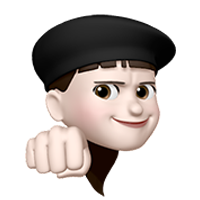
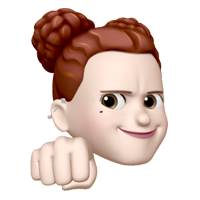
commit

diff --git a/index.html b/index.html
@@ -54,13 +54,13 @@
                             <div class="list_item">
                                 <a href="#none" class="list_link memoji_link">
                                     <div class="memoji_wrap">
-                                        <img src="./assets/images/memoji1.gif" class="play" alt="미모지 이모티콘 gif">
+                                        <img src="./assets/images/memoji.gif" class="play" alt="미모지 이모티콘 gif">
                                         <img src="./assets/images/memojiHover.png" class="pause" width="100%"
                                             height="100%" alt="미모지 ghqj 이모티콘">
                                     </div>
                                     <span class="text_wrap">
                                         <strong class="title">Nice to meet you</strong>
-                                        <span class="desc">개발에 의욕적인 신입 퍼블리셔 김희원입니다 :)</span>
+                                        <span class="desc">열정 가득! 신입 퍼블리셔 김희원입니다 :)</span>
                                     </span>
                                 </a>
                             </div>
@@ -228,6 +228,27 @@
                                     </div>
                                 </div>
                                 <div class="pf_bg fourth"><span class="blind">이미지 백그라운드</span></div>
+                            </div>
+                            <div class="pf_area pf_spacer3">
+                                <div class="area_inner">
+                                    <div class="move_box">
+                                        <a href="https://heewonkimm.github.io/dna-projecten" target="_blank"
+                                            class="thumb_area fifth">
+                                            <img src="assets/images/Untitled-1.png" alt="dna projecten 페이지 이미지">
+                                        </a>
+                                    </div>
+                                    <div class="text_area">
+                                        <h2 class="desc">스키니랩, 스키니랩, 스키니랩, 스키니랩 pc적응형 모바일 적응형, 마크업, swiper </h2>
+                                        <p class="keyword small">
+                                            <span>#Responsive</span>
+                                            <span>#GSAP</span>
+                                            <span>#SCSS</span>
+                                        </p>
+                                        <a href="https://velog.io/@kimheewon/DNA-Projecten" target="_blank"
+                                            class="review_btn">→ CODE REVIEW</a>
+                                    </div>
+                                </div>
+                                <div class="pf_bg fifth"><span class="blind">이미지 백그라운드</span></div>
                             </div>
                         </div>
                     </div>

diff --git a/assets/css/style.css b/assets/css/style.css
@@ -252,19 +252,17 @@ html {
   width: 63px;
   height: 63px;
   border-radius: 4px;
-  background-color: #dfd3ea;
-  overflow: hidden;
 }
 .group_updates .list_area .memoji_wrap img.play {
   position: absolute;
   top: 50%;
   left: 50%;
-  transform: translate(-50%, -50%) scale(1.65);
+  transform: translate(-50%, -50%) scale(2.55);
   width: 100%;
   height: 100%;
   -o-object-fit: contain;
      object-fit: contain;
-  margin-top: 2px;
+  margin-top: -3px;
   max-width: 200%;
   z-index: 10;
 }
@@ -273,7 +271,7 @@ html {
   position: absolute;
   top: 50%;
   left: 50%;
-  transform: translate(-50%, -50%) scale(0.98);
+  transform: translate(-50%, -50%) scale(1.05);
   z-index: 5;
 }
 @media (max-width: 1023px) {
@@ -1004,6 +1002,20 @@ html {
     margin: 0 1vw !important;
   }
 }
+.sc_portfolio .pf_spacer3 {
+  margin: -6em 3em 0 5em !important;
+}
+@media (max-width: 1023px) {
+  .sc_portfolio .pf_spacer3 {
+    margin-left: 4vw !important;
+    margin-right: 2vw !important;
+  }
+}
+@media (max-width: 767px) {
+  .sc_portfolio .pf_spacer3 {
+    margin: 0 1vw !important;
+  }
+}
 .sc_portfolio .pf_bg {
   opacity: 0;
   position: fixed;
@@ -1026,6 +1038,9 @@ html {
 .sc_portfolio .pf_bg.fourth {
   background-color: #d9ff00;
 }
+.sc_portfolio .pf_bg.fifth {
+  background-color: #abc8e1;
+}
 .sc_portfolio .thumb_area.first {
   background-color: hsl(245, 100%, 58.93%);
 }
@@ -1037,4 +1052,7 @@ html {
 }
 .sc_portfolio .thumb_area.fourth {
   background-color: #d9ff00;
+}
+.sc_portfolio .thumb_area.fifth {
+  background-color: #abc8e1;
 }

diff --git a/assets/scss/page/_main.scss b/assets/scss/page/_main.scss
@@ -354,9 +354,11 @@
 
             &.small {
                 font-size: 1.28vw;
+
                 @include tablet {
                     font-size: 1.75em
                 }
+
                 @include mobile {
                     font-size: 3.5vw;
                 }
@@ -399,6 +401,7 @@
             @include mobile {
                 font-size: 3.5vw;
                 transition: color .2s;
+
                 &:hover {
                     color: #000;
                 }
@@ -441,6 +444,19 @@
         }
     }
 
+    .pf_spacer3 {
+        margin: -6em 3em 0 5em !important;
+
+        @include tablet {
+            margin-left: 4vw !important;
+            margin-right: 2vw !important;
+        }
+
+        @include mobile {
+            margin: 0 1vw !important;
+        }
+    }
+
     .pf_bg {
         opacity: 0;
         position: fixed;
@@ -466,6 +482,10 @@
         &.fourth {
             background-color: #d9ff00;
         }
+
+        &.fifth {
+            background-color: #abc8e1;
+        }
     }
 
     .thumb_area {
@@ -483,6 +503,10 @@
 
         &.fourth {
             background-color: #d9ff00;
+        }
+
+        &.fifth {
+            background-color: #abc8e1;
         }
     }
 }

diff --git a/assets/scss/layout/_header.scss b/assets/scss/layout/_header.scss
@@ -114,18 +114,18 @@
             width: 63px;
             height: 63px;
             border-radius: 4px;
-            background-color: #dfd3ea;
-            overflow: hidden;
+            // background-color: #dfd3ea;
+            // overflow: hidden;
 
             img.play {
                 position: absolute;
                 top: 50%;
                 left: 50%;
-                transform: translate(-50%, -50%) scale(1.65);
+                transform: translate(-50%, -50%) scale(2.55);
                 width: 100%;
                 height: 100%;
                 object-fit: contain;
-                margin-top: 2px;
+                margin-top: -3px;
                 max-width: 200%;
                 z-index: 10;
             }
@@ -135,7 +135,7 @@
                 position: absolute;
                 top: 50%;
                 left: 50%;
-                transform: translate(-50%, -50%) scale(0.98);
+                transform: translate(-50%, -50%) scale(1.05);
                 z-index: 5;
             }
         }
